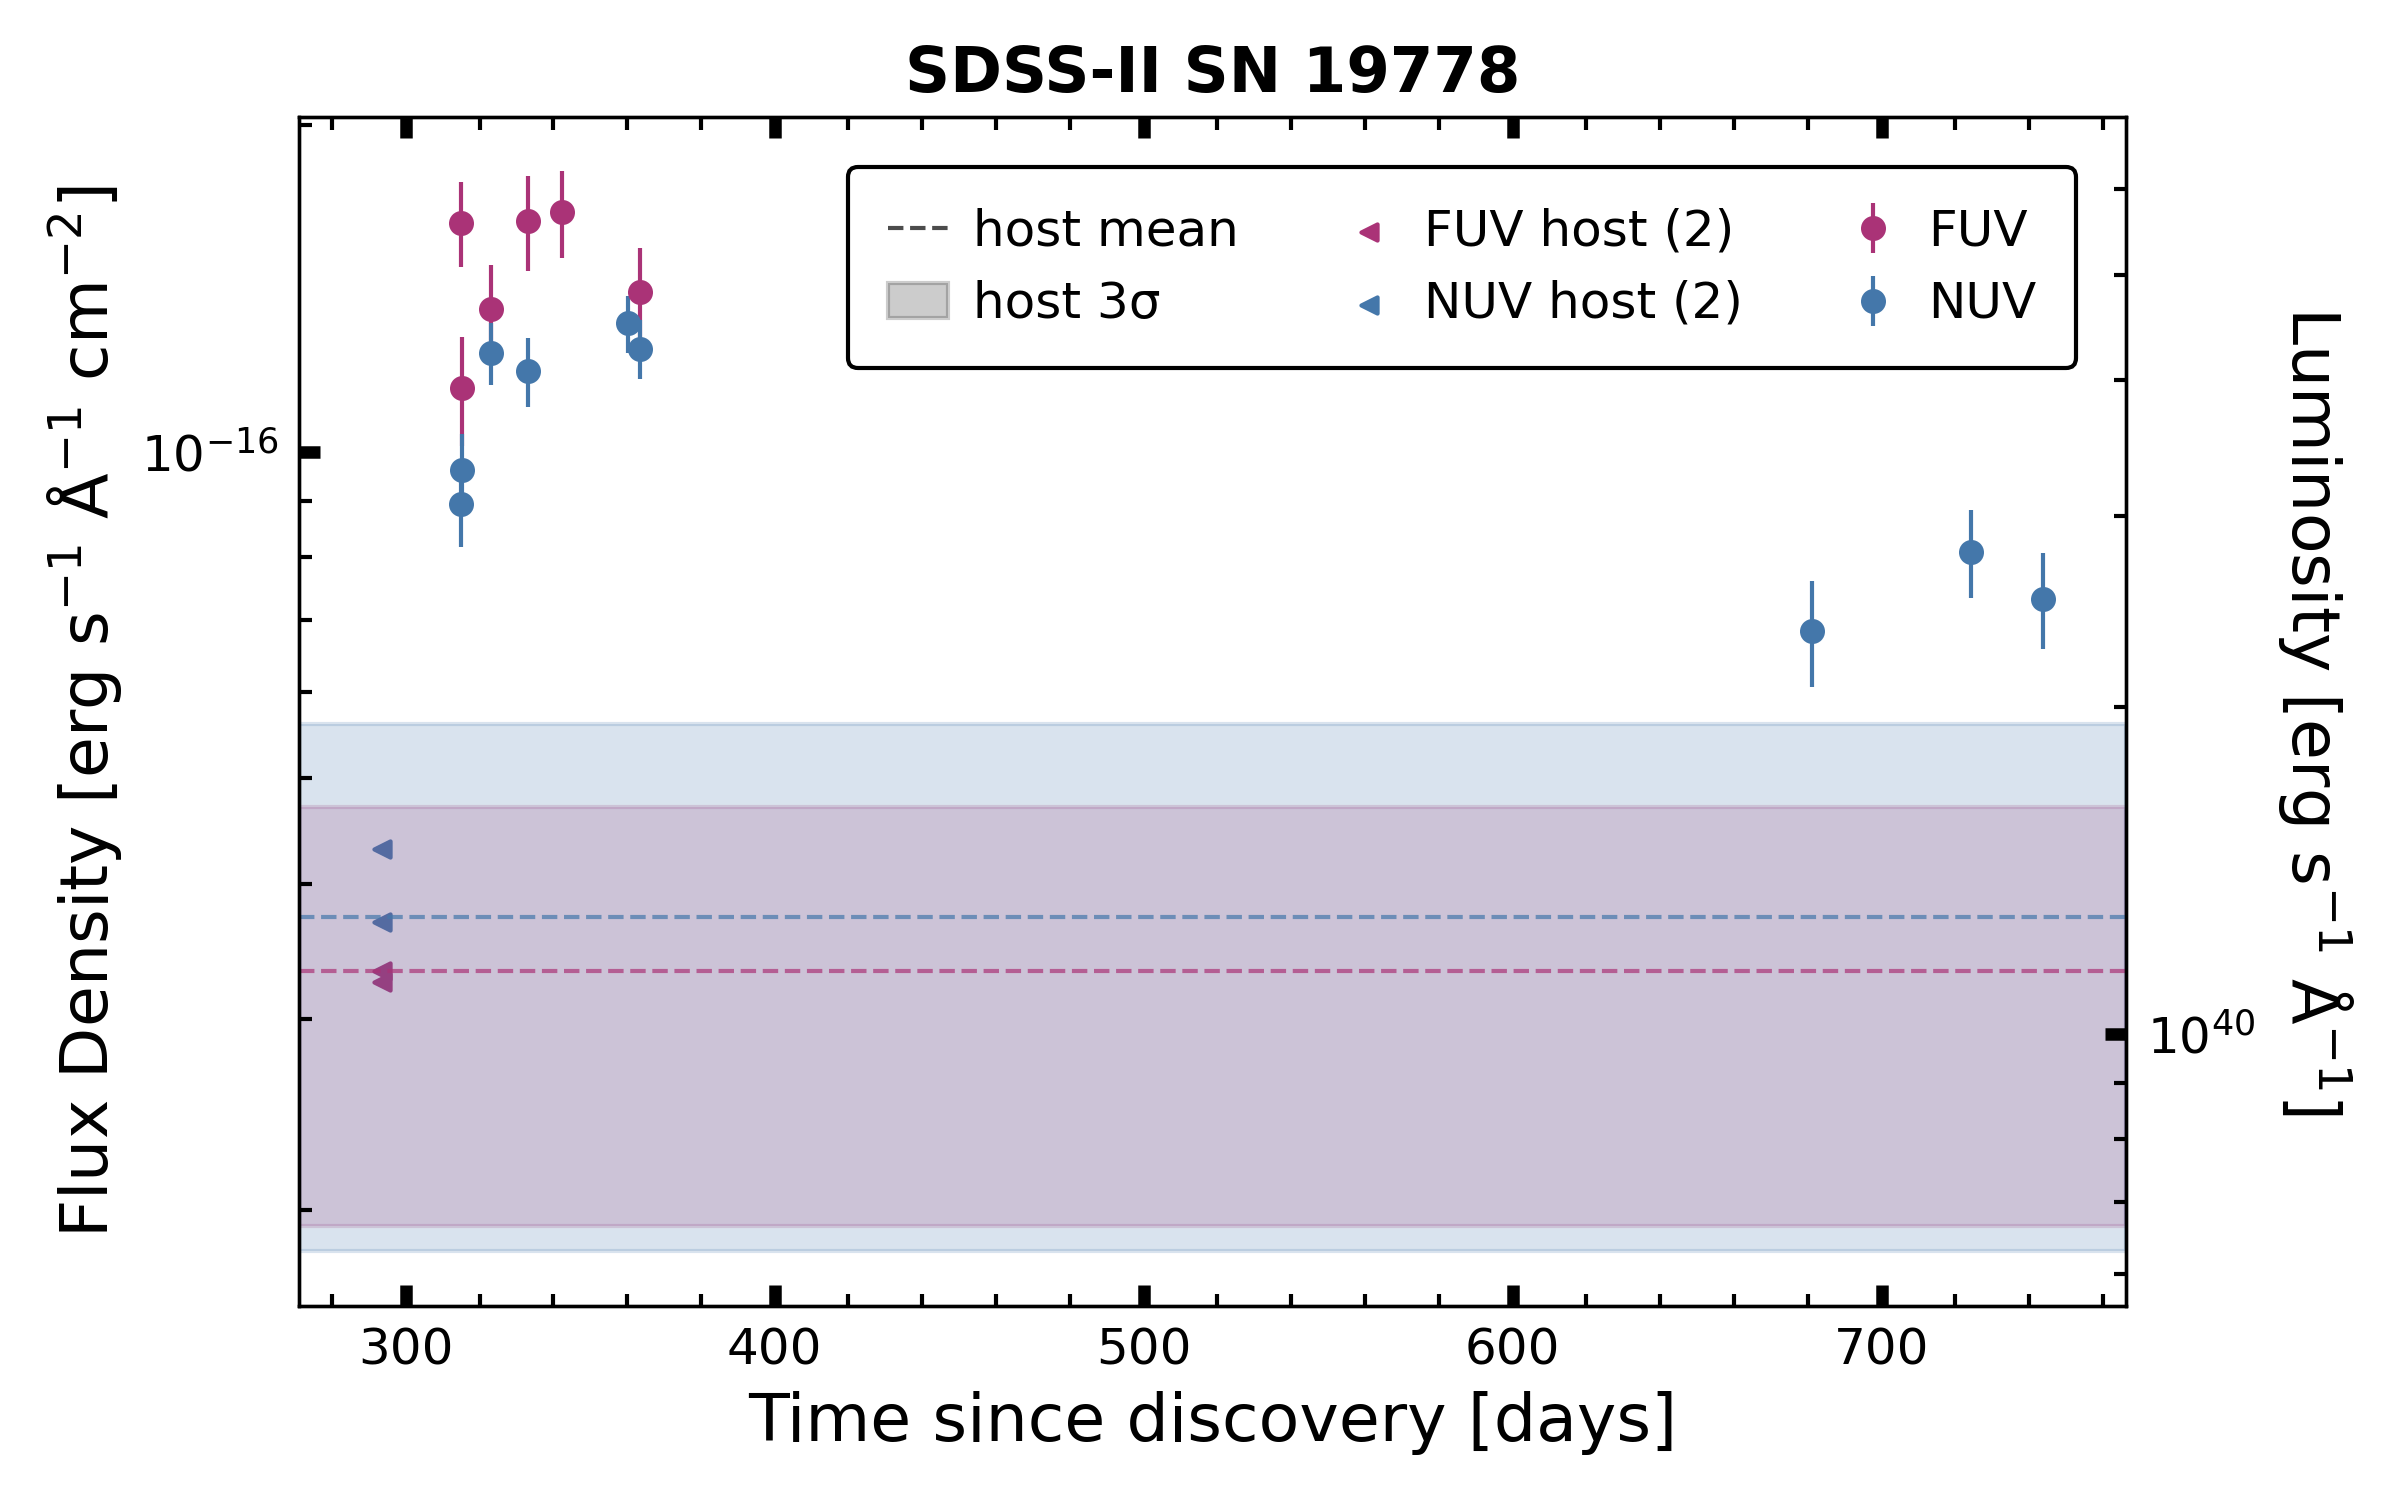
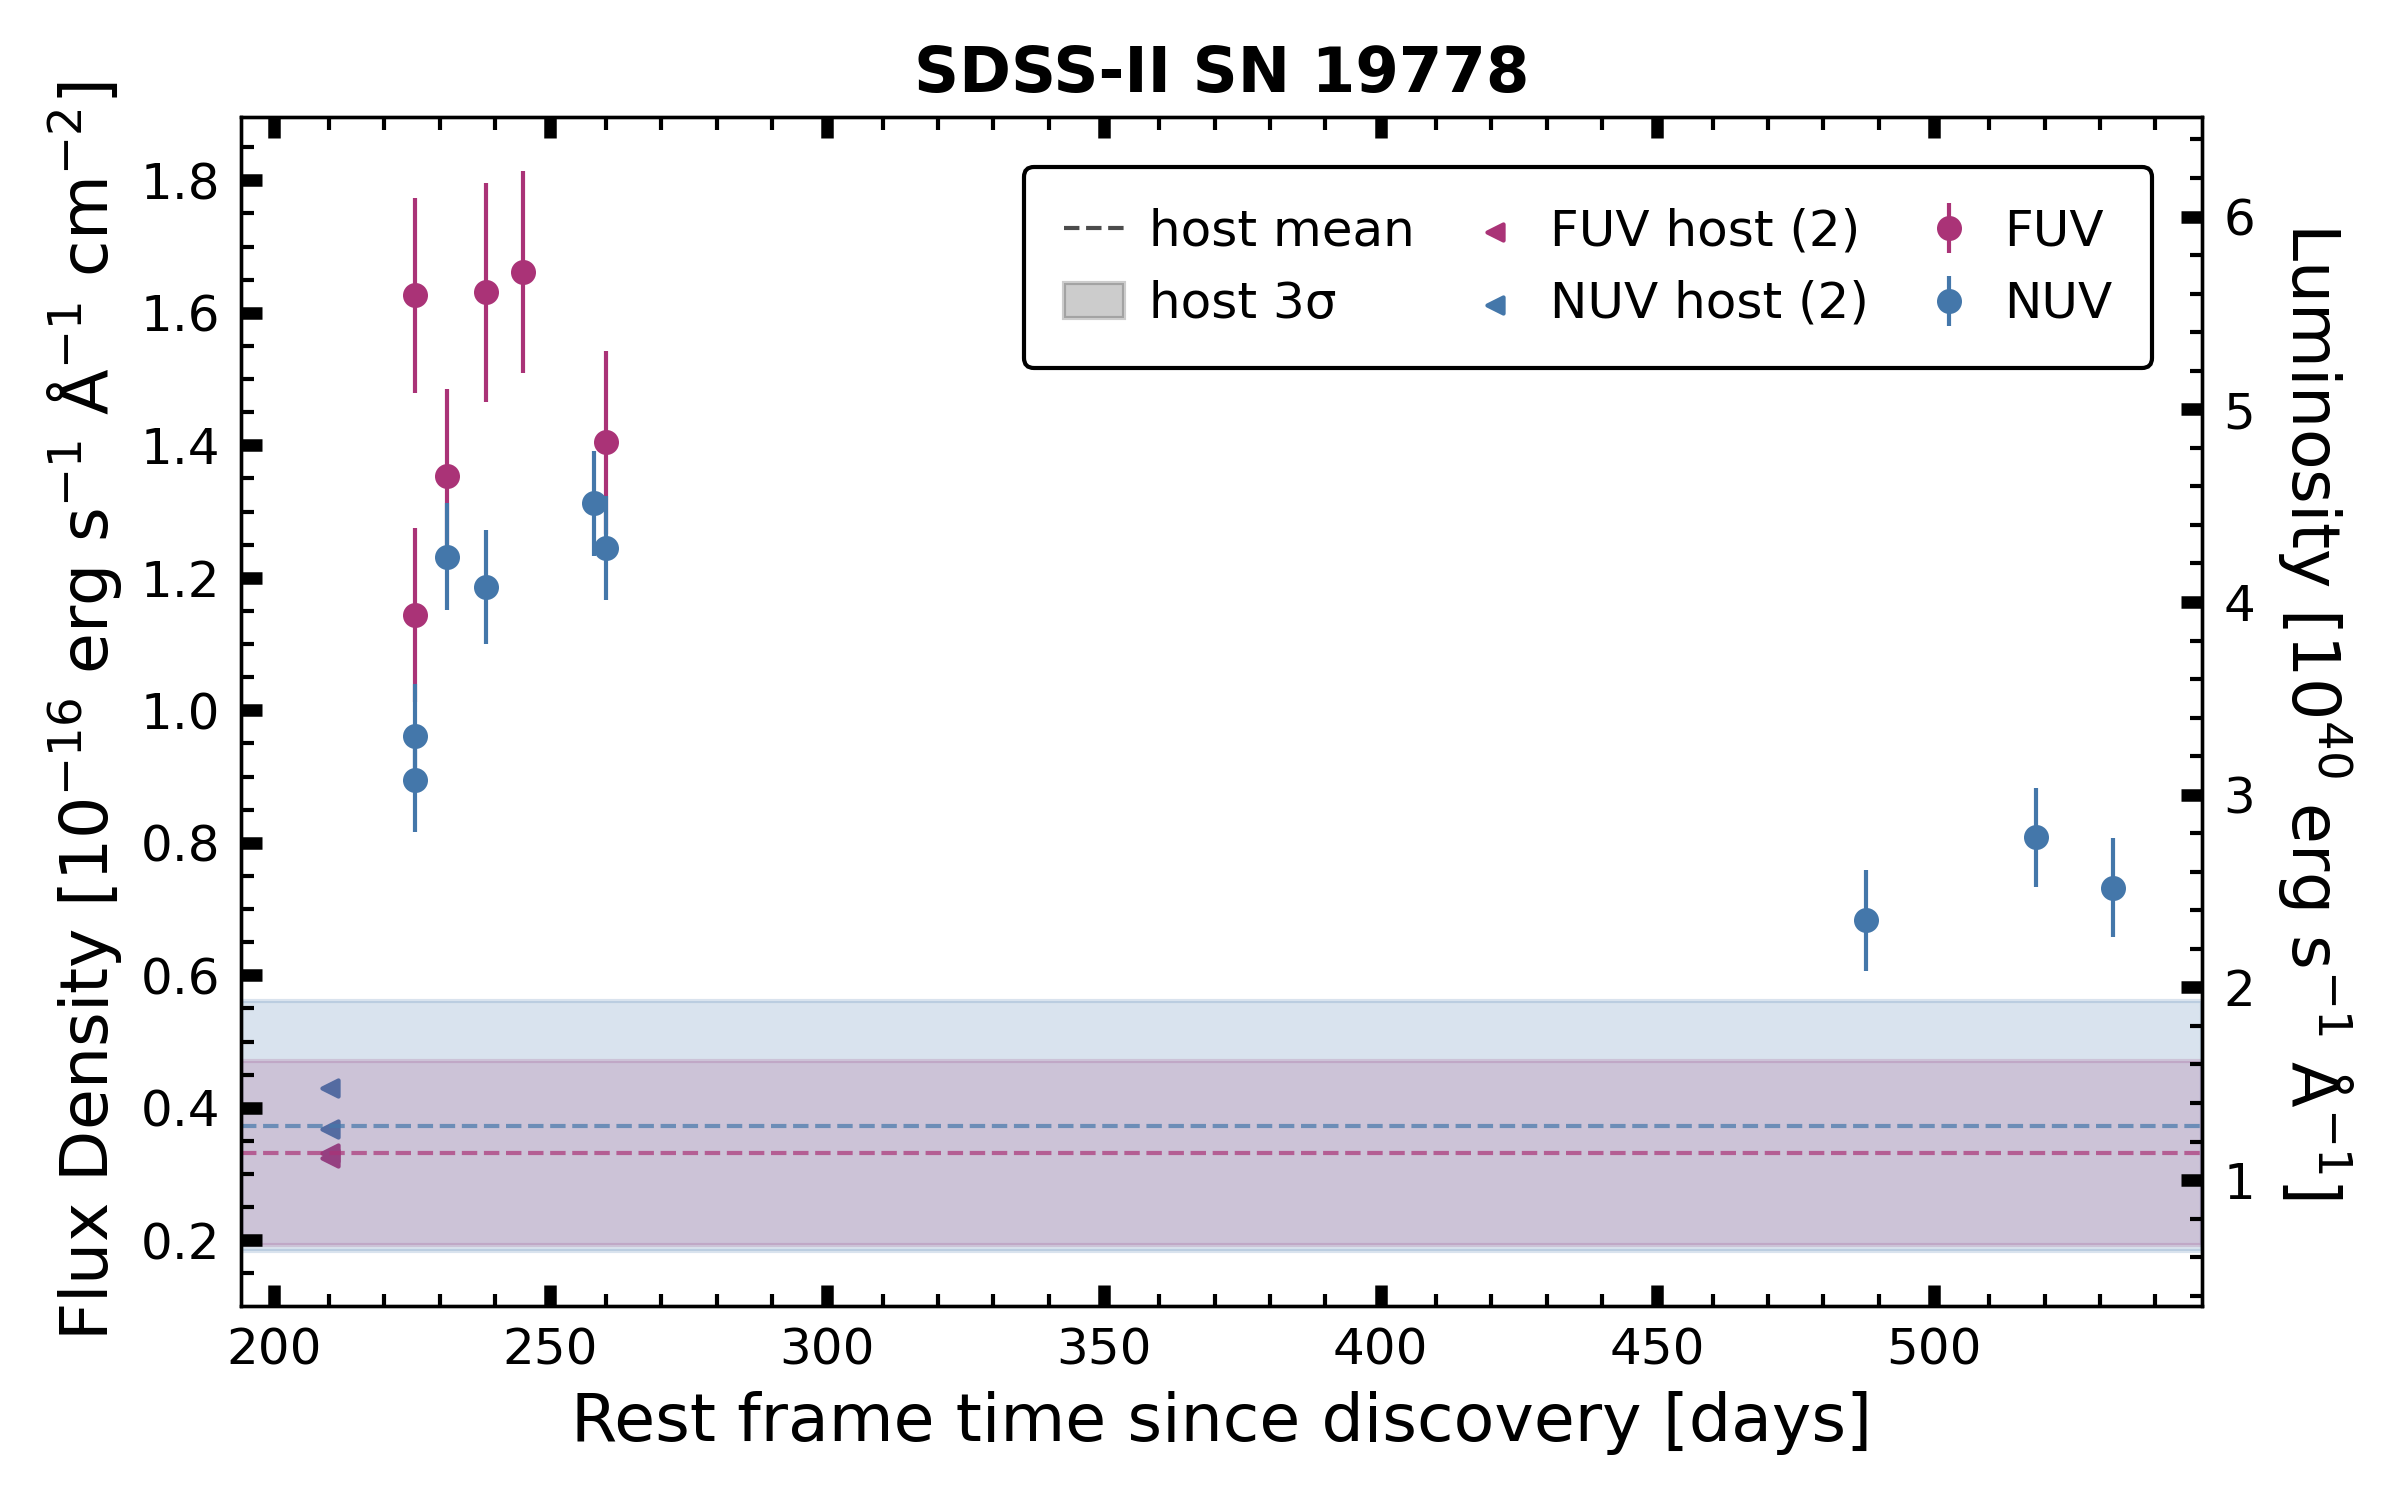
added time dilation correction factor

diff --git a/fancy_plot.py b/fancy_plot.py
@@ -31,6 +31,8 @@ def main():
             help='plot light curves in log(flux)')
     parser.add_argument('-p', '--pad', action='store_true',
             help='extra padding for legend at the top-right')
+    parser.add_argument('-r', '--restframe', action='store_true',
+            help='plot rest frame time, corrected for z')
     args = parser.parse_args()
 
     sn_info = pd.read_csv(args.info, index_col='name')
@@ -107,7 +109,13 @@ def plot(sn, sn_info, args):
                 color=color, alpha=bg_alpha)
 
         # Plot fluxes
-        ax.errorbar(after['t_delta'], after['flux_bgsub'] * yscale, 
+        if args.restframe:
+            dt = after['t_delta_destretch']
+            xlabel = 'Rest frame time since discovery [days]'
+        else:
+            dt = after['t_delta']
+            xlabel = 'Time since discovery [days]'
+        ax.errorbar(dt, after['flux_bgsub'] * yscale, 
                 yerr=after['flux_bgsub_err_total'] * yscale, linestyle='none', 
                 marker='o', ms=5, alpha=1,
                 elinewidth=1, c=color, label=band
@@ -122,7 +130,7 @@ def plot(sn, sn_info, args):
                 c=COLORS[band], label='%s host (%s)' % (band, len(before.index)))
 
     # Configure plot
-    ax.set_xlabel('Time since discovery [days]')
+    ax.set_xlabel(xlabel)
     if args.log:
         flux_exp_text = ''
         ax.set_yscale('log')
@@ -180,6 +188,10 @@ def plot_swift(ax, sn, sn_info, yscale, args):
     bands = ['UVW1', 'UVM2', 'UVW2']
     for band in bands:
         data = lc[lc['band'] == band]
+        if args.restframe:
+            dt = data['t_delta_destretch']
+        else:
+            dt = data['t_delta']
         ax.errorbar(data['t_delta'], data['flux'] * yscale, linestyle='none',
                 yerr=data['flux_err'] * yscale, marker='D', ms=4, label=band,
                 elinewidth=1, markeredgecolor=COLORS[band], markerfacecolor='white',

diff --git a/utils.py b/utils.py
@@ -283,6 +283,9 @@ def full_import(sn, band, sn_info):
     lc['absolute_mag_err_2'] = absolute_mag_err(
             lc['mag_bgsub'], lc['mag_bgsub_err_2'], dist, dist_err)[1]
 
+    # Correct epoch for stretch factor
+    lc['t_delta_destretch'] = 1 / (1 + sn_info.loc[sn, 'z']) * lc['t_delta']
+
     return lc, bg, bg_err, sys_err
 
 
@@ -527,6 +530,9 @@ def import_swift_lc(sn, sn_info):
     lc['flux'], lc['flux_err'] = swift_cps2flux(lc['cps'], lc['cps_err'], lc['band'])
     lc['luminosity'], lc['luminosity_err'] = absolute_luminosity_err(
             lc['flux'], lc['flux_err'], dist, dist_err)
+
+    # Correct epoch for stretch factor
+    lc['t_delta_destretch'] = 1 / (1 + sn_info.loc[sn, 'z']) * lc['t_delta']
 
     return lc
 
